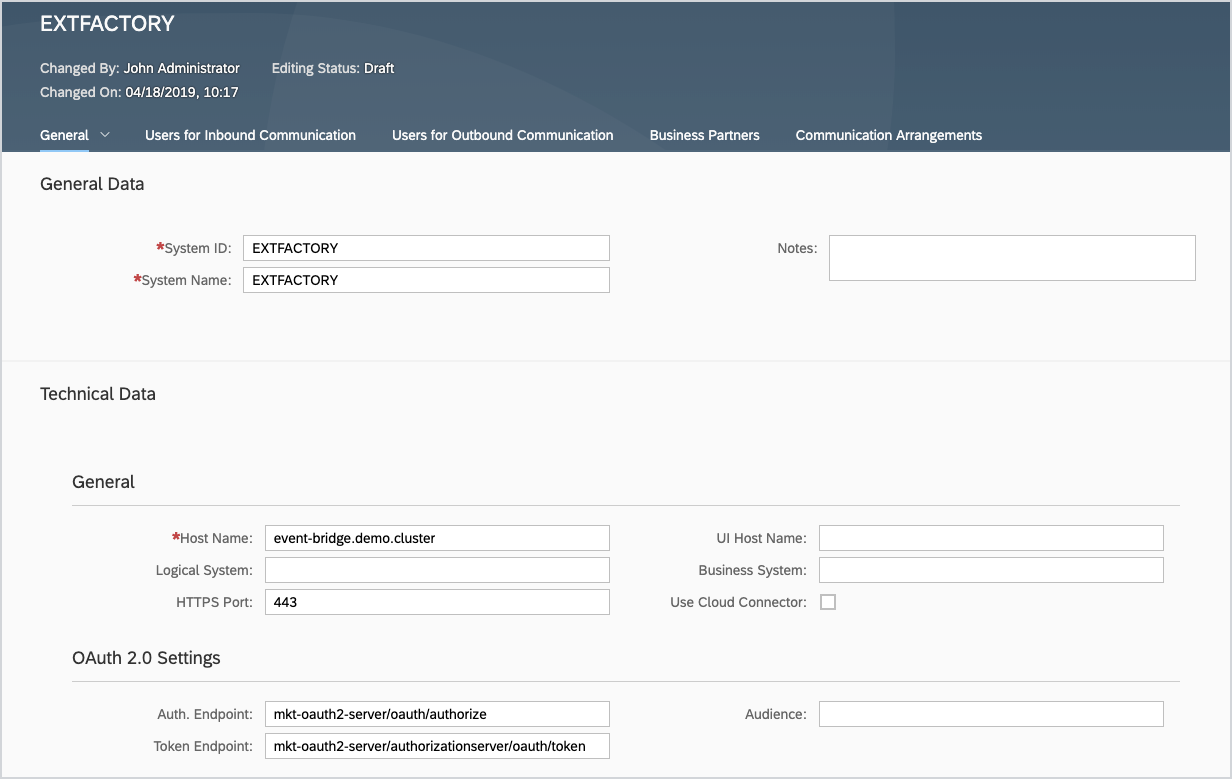
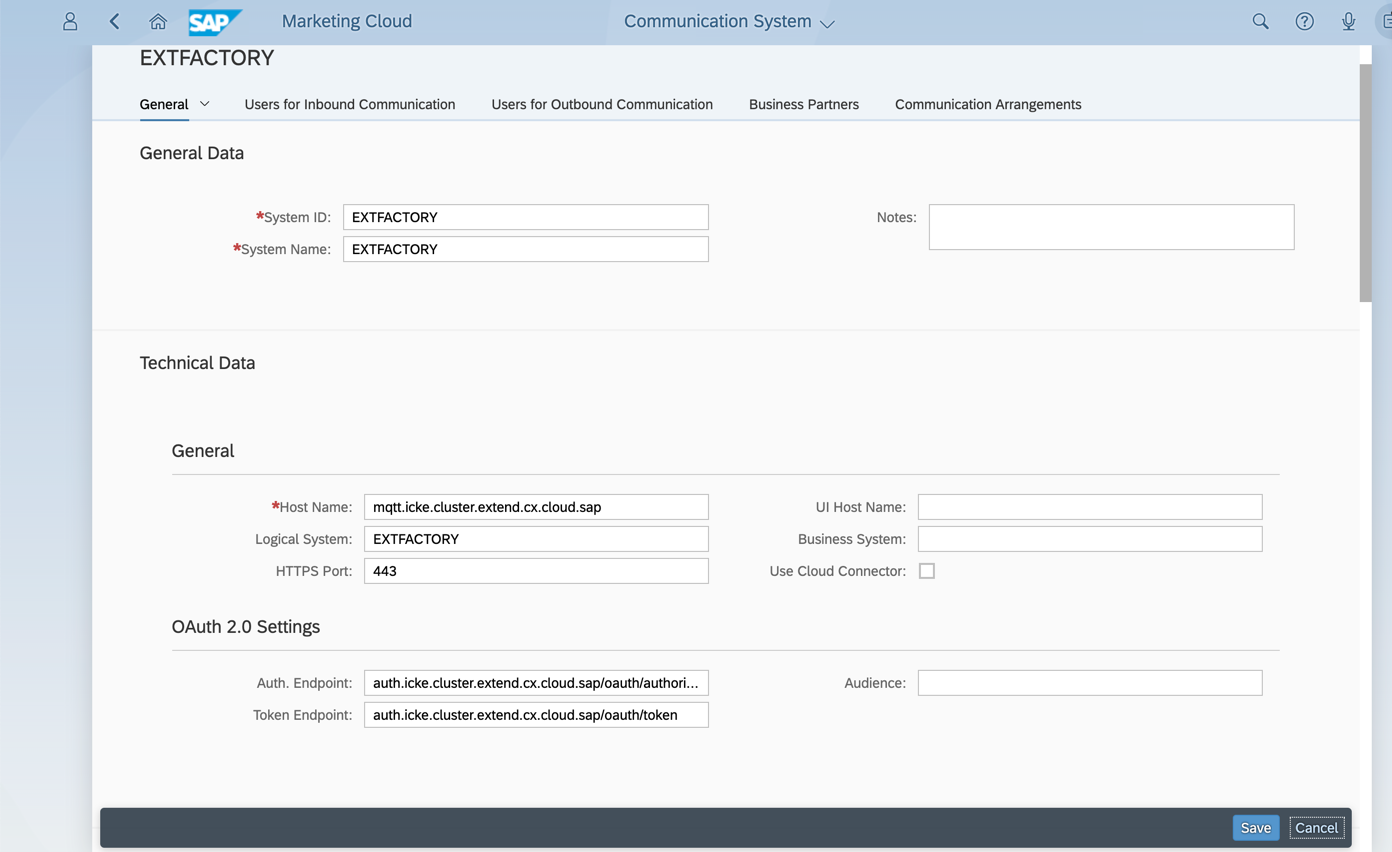
Documentation fixes

diff --git a/installation/marketing.md b/installation/marketing.md
@@ -2,7 +2,7 @@
 
 ## Overview
 
-The SAP Marketing Connector allows you to integrate an SAP Marketing Cloud instance by registering its ODATA services and Event catalog in an existing Application and activating Event sending. The integration uses the [extensibility features](https://help.sap.com/viewer/dbce7cc5e9e3469c84849d35e777fe0b/2019-05-07/en-US/363cf54bad2c47aeb44a87c215ad91ea.html) available in the SAP C/4HANA cockpit based on concepts and solutions from the open-source project "Kyma", so that you can easily develop Side-by-Side extensions. 
+The SAP Marketing Connector allows you to integrate an SAP Marketing Cloud instance by registering its OData services and Event catalog in an existing Application and activating Event publishing. The integration uses the [extensibility features](https://help.sap.com/viewer/dbce7cc5e9e3469c84849d35e777fe0b/2019-05-07/en-US/363cf54bad2c47aeb44a87c215ad91ea.html) available in the SAP C/4HANA cockpit based on concepts and solutions from the open-source project "Kyma", so that you can easily develop Side-by-Side extensions. 
 
 > **NOTE**: The integration is possible in the **preview** mode only. Do not use it in production scenarios.
 
@@ -13,18 +13,18 @@ The SAP Marketing Connector allows you to integrate an SAP Marketing Cloud insta
 
 ## Scenario 
 
-To establish the connection and allow data exchange between SAP Marketing Cloud and "Kyma", perform the following steps using SAP Marketing Cloud solution, SAP C/4HANA cockpit and Kyma Console.
+To establish the connection and allow data exchange between SAP Marketing Cloud and "Kyma", perform the following steps using the SAP Marketing Cloud solution, SAP C/4HANA cockpit and Kyma Console.
 
 1. [Create and configure a Communication User](#create-a-communication-user).
 2. [Create a Communication System](#create-a-communication-system) which is the external system you want to integrate with the marketing solution. With the Communication System in place, SAP Marketing Cloud is able to send Events to "Kyma". 
-3. [Create Communication Arrangements](#create-communication-arrangements) which help you to organize the data exchange between the external system and the marketing system. You need to set them up for all APIs you want to register in "Kyma".
+3. [Create Communication Arrangements](#create-communication-arrangements) which help you to organize the data exchange between the external system and the Marketing system. You need to set them up for all APIs you want to register in "Kyma".
 4. Use the Kyma Console to [set up the SAP Marketing Connector](#set-up-the-sap-cloud-marketing-connector).
-5. [Configure Business Events handling](#configure-business-events-handling) using the SAP_COM_0092 communication scenario for Enterprise Messaging Integration.
+5. [Configure Business Events handling](#configure-business-events-handling) using the SAP_COM_0092 Communication Scenario for Enterprise Messaging Integration.
 
 
-### Create a Communication User
+### 1. Create a Communication User
 
-1. Log in to the SAP Marketing Cloud frontend with a user that has the **SAP_BR_ADMINISTRATOR** role assigned.
+1. Log in to the SAP Marketing Cloud frontend with a business user that has the **SAP_BR_ADMINISTRATOR** role
 2. Go to **Communication Management** > **Maintain Communication Users**.
 3. Click **New**.
 4. Enter the **User Name**, **Description**, and **Password**.
@@ -32,7 +32,7 @@ To establish the connection and allow data exchange between SAP Marketing Cloud 
 ![Create Communication User](assets/communication-user.png)
 5. Confirm with **Create**.
 
-### Create a Communication System
+### 2. Create a Communication System
 
 1. Go to **Communication Management** > **Maintain Communication Systems**.
 2. Click **New**.
@@ -41,21 +41,21 @@ To establish the connection and allow data exchange between SAP Marketing Cloud 
 
     | Parameter    | Value |
     | --- | ---|
-    | **Host Name**   | `event-bridge.<cluster_url>` |
+    | **Host Name**   | `mqtt.<kyma_cluster_url>` |
     | **HTTPS Port**    | `443 `|
-    | **Auth. Endpoint**| `https://mkt-oauth2-server/oauth/authorize`|
-    | **Token Endpoint**| `https://mkt-oauth2-server/authorizationserver/oauth/token` |
+    | **Auth. Endpoint**| `https://auth.<kyma_cluster_url>/oauth/authorize`|
+    | **Token Endpoint**| `https://auth.<kyma_cluster_url>/oauth/token` |
     | **Inbound User** | `EXTFACTORY`   |
-    | **Outbound User** |  Authentication Method: `OAuth 2.0` <br>OAuth 2.0 Client ID: `kyma` <br> Client Secret: `kyma123` |
+    | **Outbound User** |  Authentication Method: `OAuth 2.0` <br>OAuth 2.0 Client ID: `kyma` <br> Client Secret: (choose a suitable secret) |
     
-![](assets/communication-system.png)
+![Create Communication System](assets/communication-system.png)
 
 
-### Create Communication Arrangements
+### 3. Create Communication Arrangements
 
-When creating a Communication Arrangement, you need to create a Communication Scenario. This scenario bundles inbound and outbound communication APIs and is the basis for communication between different systems. Each communication arrangement is based on a communication scenario.
+When creating a Communication Arrangement, you need to choose a specific Communication Scenario. This scenario bundles inbound and outbound communication APIs and is the basis for communication between different systems. Each Communication Arrangement is based on a Communication Scenario.
 
-Here are the Communication Scenarios for you to use:
+Here are selection of the Communication Scenarios that might be useful:
 
 * SAP_COM_0207 - Interaction Contact Integration
 * SAP_COM_0204 - Marketing Campaigns Integration
@@ -84,7 +84,7 @@ Follow these steps to create Communication Arrangements:
 
 Establishing this Communication Arrangement allows registering the services listed under **Inbound Services** in the "Kyma". 
 
-### Set up the SAP Marketing Connector
+### 4. Set up the SAP Marketing Connector
 
 1. Navigate to the **Runtimes** view under **Extensibility** in SAP C/4HANA cockpit. If you need to provision the runtime, follow [these instructions](https://help.sap.com/viewer/dbce7cc5e9e3469c84849d35e777fe0b/2019-05-07/en-US/0bb50b27d76d4113ac32655f31777662.html).
 3. Click **Kyma Console**.
@@ -93,23 +93,23 @@ Establishing this Communication Arrangement allows registering the services list
 
     |Parameter | Description |
     |---|---|
-    |**System URL**|The base URL of the SAP Marketing Cloud instance you want to register. For example, `https://marketing.instance.sap.com` |
+    |**System URL**|The base URL of the SAP Marketing Cloud instance you want to register. For example, `https://myXXXXX.s4hana.ondemand.com` |
     |**Basic Auth Username** |The username for the Communication User in SAP Marketing Cloud. This is the Communication User that you have created in the [first step](#create-communication-user). It must already exist in SAP Marketing Cloud and be used for all of the Communication Arrangements (used to expose APIs) you want to register in "Kyma"|
     |**Basic Auth Password** |The password for the Communication User in SAP Marketing Cloud|
     |**OAuth2 client_id**    |The OAuth 2.0 Client ID for sending the MQTT events. The OAuth 2.0 credentials are required to configure the Communication Scenario|
     |**OAuth2 client_secret**| The OAuth 2.0 Client Secret for sending the MTTQ events |
-    |**Application Name**   |The name of the Application CR where the ODATA services and the event catalog should be registered for consumption|
+    |**Application Name**   |The name of the Kyma Application CR where the ODATA services and the event catalog should be registered for consumption|
     |**Cluster Domain** |The domain of the cluster. For example, `demo.kyma.cx`|
 
 
 6. Use the **Catalog** to view the newly registered Events and APIs.
 
 
-### Configure Business Events handling
+### 5. Configure Business Events handling
 
 1. Log in to the SAP Marketing Cloud frontend.
-1. Go to **Communication Management** > **Maintain Communication Arrangement**.
-2. Create a new Communication Arrangement for Scenario SAP_COM_0092 (Enterprise Eventing Integration) using the following parameters:
+2. Go to **Communication Management** > **Maintain Communication Arrangement**.
+3. Create a new Communication Arrangement for Communication Scenario SAP_COM_0092 (Enterprise Eventing Integration) using the following parameters:
 
     |Parameter| Value|
     |---|---|
@@ -118,17 +118,28 @@ Establishing this Communication Arrangement allows registering the services list
     |Topic Space         |`EXTFACTORY`|
 
     ![SAP COM 0092](assets/sap_com_0092.png)
-3. Log in to SAP Marketing Cloud with a user that has the **SAP_BR_BPC_EXPERT** role.
-4. Go to **Implementation Cockpit** > **Manage Your Solution** > **Configure Your Solution**.
-5. Search for **Event Handling** and select the entry.
+4. Log in to SAP Marketing Cloud with a business user that has the **SAP_BR_BPC_EXPERT** role.
+5. Go to **Implementation Cockpit** > **Manage Your Solution** > **Configure Your Solution**.
+6. Search for **Event Handling** and select the entry.
 ![Event handling](assets/event-handling.png)
-6. Go to **Configuration Steps** > **Maintain Event Topics** and click **Configure**.
-7. Determine the Working Area. Set **Channel** to `EXTFACTORY` and confirm.
-8. Select all the Marketing Business Events.
+7. Go to **Configuration Steps** > **Maintain Event Topics** and click **Configure**.
+8. Determine the Working Area. Set **Channel** to `EXTFACTORY` and confirm.
+9. Select all the Marketing Business Events.
 ![Add topics](assets/add-topics.png)
-9. Log in to SAP Marketing Cloud with a user that has the **SAP_BR_ADMINISTRATOR** role.
-10. Go to **Business Event Handling** > **Business Event Subscription** and search for the Enterprise Eventing subscription.
-11. Activate all Events.
+10. Log in to SAP Marketing Cloud with a user that has the **SAP_BR_ADMINISTRATOR** role.
+11. Go to **Business Event Handling** > **Business Event Subscription** and search for the Enterprise Eventing subscription.
+12. Activate the Marketing events for the Enterprise Evening subscriber.
 ![Enterprise messaging](assets/enterprise-messaging-subs.png)
 
-The connection is set up. Business Events triggered in SAP Marketing Cloud will be sent to "Kyma".
+The connection is set up. Business Events triggered in SAP Marketing Cloud system should now be sent to "Kyma".
+
+### Troubleshooting 
+
+If the events are not being delivered to Kyma, it's possible that the event channel is not active. This can occur the Marketing system was not able to connect to Kyma for a period of time. Follow the steps below to check the status of the connection.
+
+1. Goto **Communication Management** > **Maintain Communication Arrangement**.
+2. Open the Communication Arrangement that was created earlier for Communication Scenario SAP_COM_0092
+3. Click **Check Connection** to test the connectivity
+4. If the status shows as inactive, click the **Edit** button and save the Communication Arrangement then test the connection again. 
+
+![Check Connection](assets/check-connection.png)

diff --git a/installation/c4c.md b/installation/c4c.md
@@ -3,12 +3,12 @@
 ## Overview
 
 
-The SAP Cloud for Customer Connector allows you to integrate an SAP Cloud for Customer instance by registering its ODATA services and Event catalog in an existing Application and activating Event sending. The integration uses the [extensibility features](https://help.sap.com/viewer/dbce7cc5e9e3469c84849d35e777fe0b/2019-05-07/en-US/363cf54bad2c47aeb44a87c215ad91ea.html) available in the SAP C/4HANA cockpit based on concepts and solutions from the open-source project "Kyma", so that you can easily develop Side-by-Side extensions. 
+The SAP Cloud for Customer Connector allows you to integrate an SAP Cloud for Customer instance by registering its OData services and Event catalog in an existing Application and activating Event publishing. The integration uses the [extensibility features](https://help.sap.com/viewer/dbce7cc5e9e3469c84849d35e777fe0b/2019-05-07/en-US/363cf54bad2c47aeb44a87c215ad91ea.html) available in the SAP C/4HANA cockpit based on concepts and solutions from the open-source project "Kyma", so that you can easily develop Side-by-Side extensions. 
 
 > **NOTE**: The integration is possible in the **preview** mode only. Do not use it in production scenarios.
 
 ## Prerequisites
-* SAP Cloud for Customer version 1902 
+* SAP Cloud for Customer version 1902 or higher
 * "Kyma" version 1.0 or higher
 * [DST Root Certificate](https://www.identrust.com/dst-root-ca-x3)
 
@@ -24,7 +24,7 @@ To establish the connection and allow data exchange between SAP Cloud for Custom
 4. Set up the SAP Cloud for Customer Connector to register APIs in "Kyma".
 
 
-### Configure trust settings
+### 1. Configure trust settings
 
 1. Log in to SAP Cloud for Customer frontend.
 2. Go to **Administrator** > **Common Tasks** > **Edit Certificate Trust List**.
@@ -32,13 +32,15 @@ To establish the connection and allow data exchange between SAP Cloud for Custom
 
 ![Trust Certificate](assets/trust-certificate.png)
 
-### Configure event notification
+### 2. Configure event notification
 
-1. In the SAP Cloud for Customer frontend, go to **Administrator** > **General Settings** > **System Administration** > **Event Notification**.
-2. Click **Add**.
-3. Select consumer type, and then enter a Name and an Endpoint.
+1. Create an Application in the SAP Cloud Platform Extension Factory
+2. Click on the **Connect Application** of the Application action and copy the connector service URL
+3. In the SAP Cloud for Customer frontend, go to **Administrator** > **General Settings** > **System Administration** > **Event Notification**.
+4. Click **Add**.
+5. Select consumer type, and then enter a Name and an Endpoint.
 
-![Add Customer](assets/add-consumer.png)
+![Add Consumer](assets/add-consumer.png)
 
 4. **Edit** the consumer and click **Edit Credentials to enter authentication details.
 5. Go to **Subscriptions** > **Add**.
@@ -48,10 +50,28 @@ To establish the connection and allow data exchange between SAP Cloud for Custom
 7. Click **Add**.
 8. Select the consumer and go to **Actions** > **Activate**.
 
-### Expose APIs
+### 3. Create User for OData access
 
+Create Service Agent User
 
-### Set up the SAP Cloud for Customer Connector 
+1. Log in to SAP Cloud for Customer frontend.
+2. Go to **Business Partners** > **Service Agent**s.
+3. Choose **New**, then **Service Agent**.
+4. Enter the relevant data, then save.
+5. Choose Request User, then close.
+
+Assign Work Centers and Views
+
+1. Go to **Application and User Management** > **User and Access Management** >  **Business Users**.
+2. Choose the business user you just created
+3. Choose Edit and select Attributes.
+4. Enter and confirm the initial password.
+5. Save your changes and choose Edit Access Rights.
+6. Assign all work centers and views
+
+> **NOTE**: Assigning all work centers and views will give the user read and write access to all OData entities. If you would like to use more restrictive priviledges, expand the work center to see all the associated views and assign a subset of the views within a work center.
+
+### 4. Set up the SAP Cloud for Customer Connector 
 
 1. Navigate to the **Runtimes** view under **Extensibility** in SAP C/4HANA cockpit. If you need to provision the runtime, follow [these instructions](https://help.sap.com/viewer/dbce7cc5e9e3469c84849d35e777fe0b/2019-05-07/en-US/0bb50b27d76d4113ac32655f31777662.html).
 3. Click **Kyma Console**.
@@ -60,7 +80,7 @@ To establish the connection and allow data exchange between SAP Cloud for Custom
 
     Parameter | Description |
     |---|---|
-    |**System URL**|The base URL of the SAP Cloud for Customer instance. For example, `https://c4c.instance.sap.com` |
-    |**Basic Auth Username** |The user name set for the Business User in SAP Cloud for Customer.|
+    |**System URL**|The base URL of the SAP Cloud for Customer instance. For example, `https://myXXXXX.crm.ondemand.com` |
+    |**Basic Auth Username** |The user name set for the Business User in SAP Cloud for Customer created in Step 3.|
     |**Basic Auth Password** |The password set for the Business User in SAP Cloud for Customer.|
-    |**Application Name**   |The name of the Application CR where the ODATA services and the Event catalog should be registered for consumption|
+    |**Application Name**   |The name of the Kyma Application CR where the OData services and the Event catalog should be registered for consumption|
